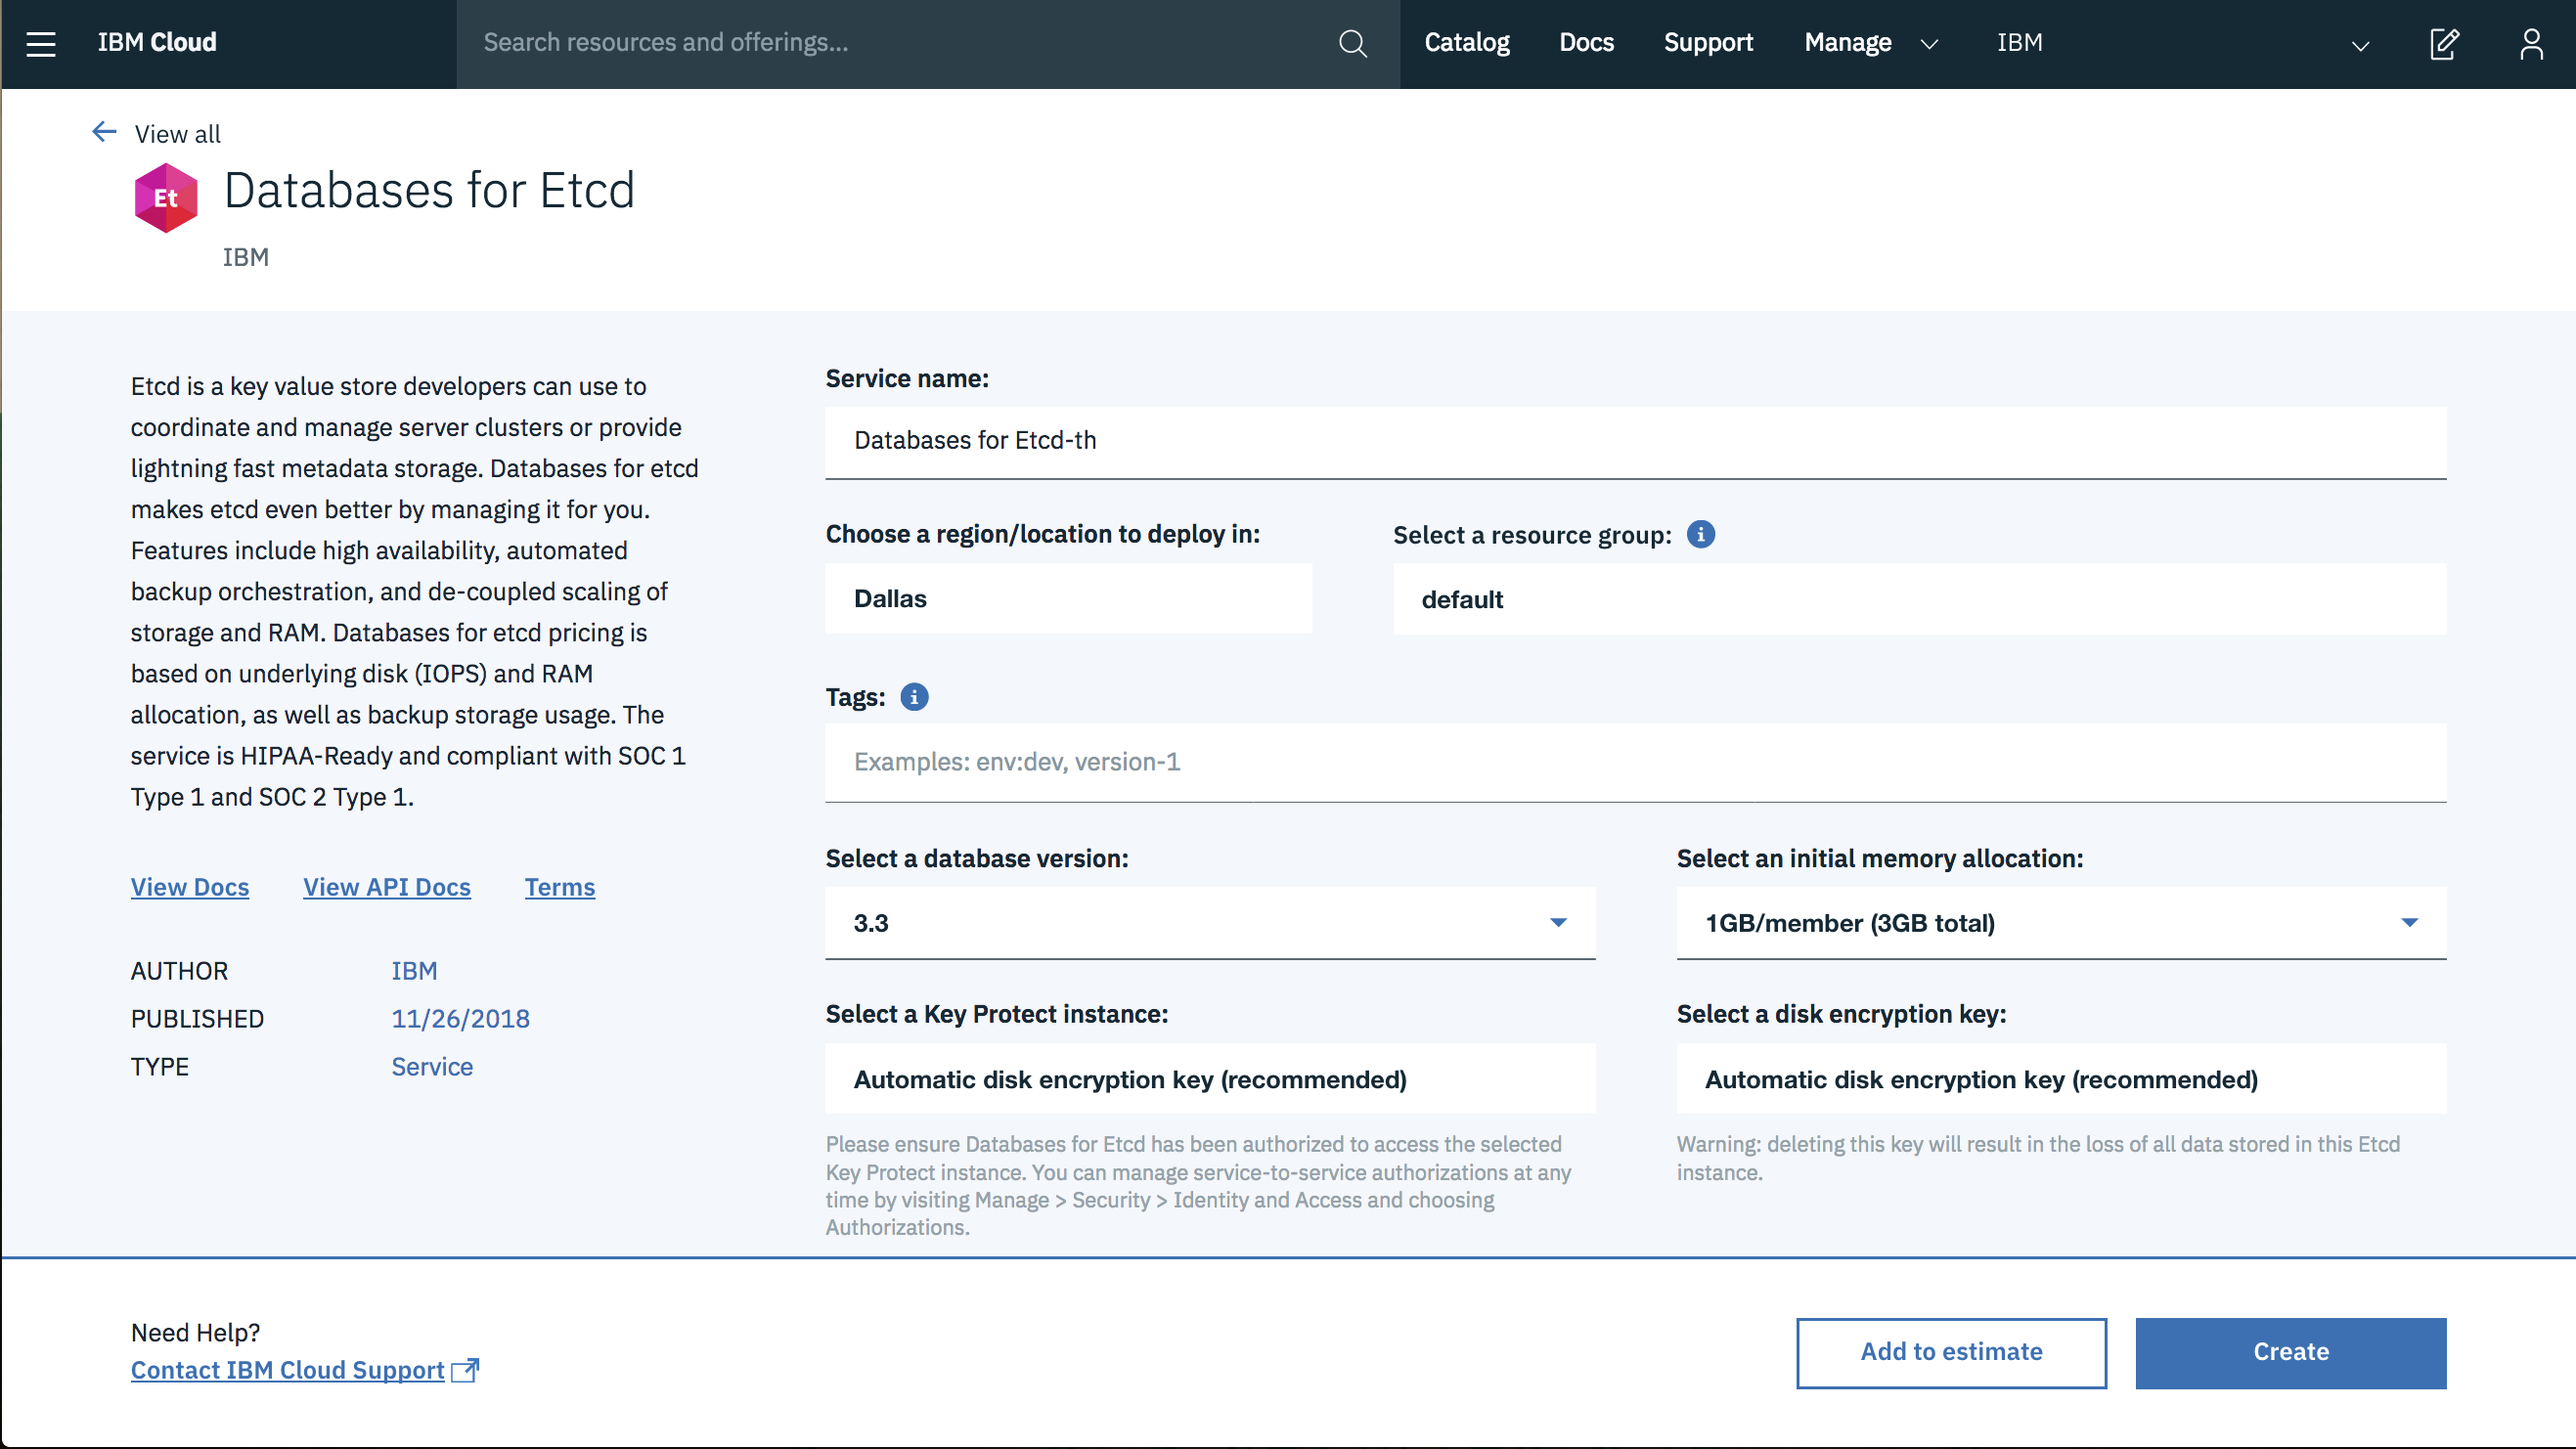
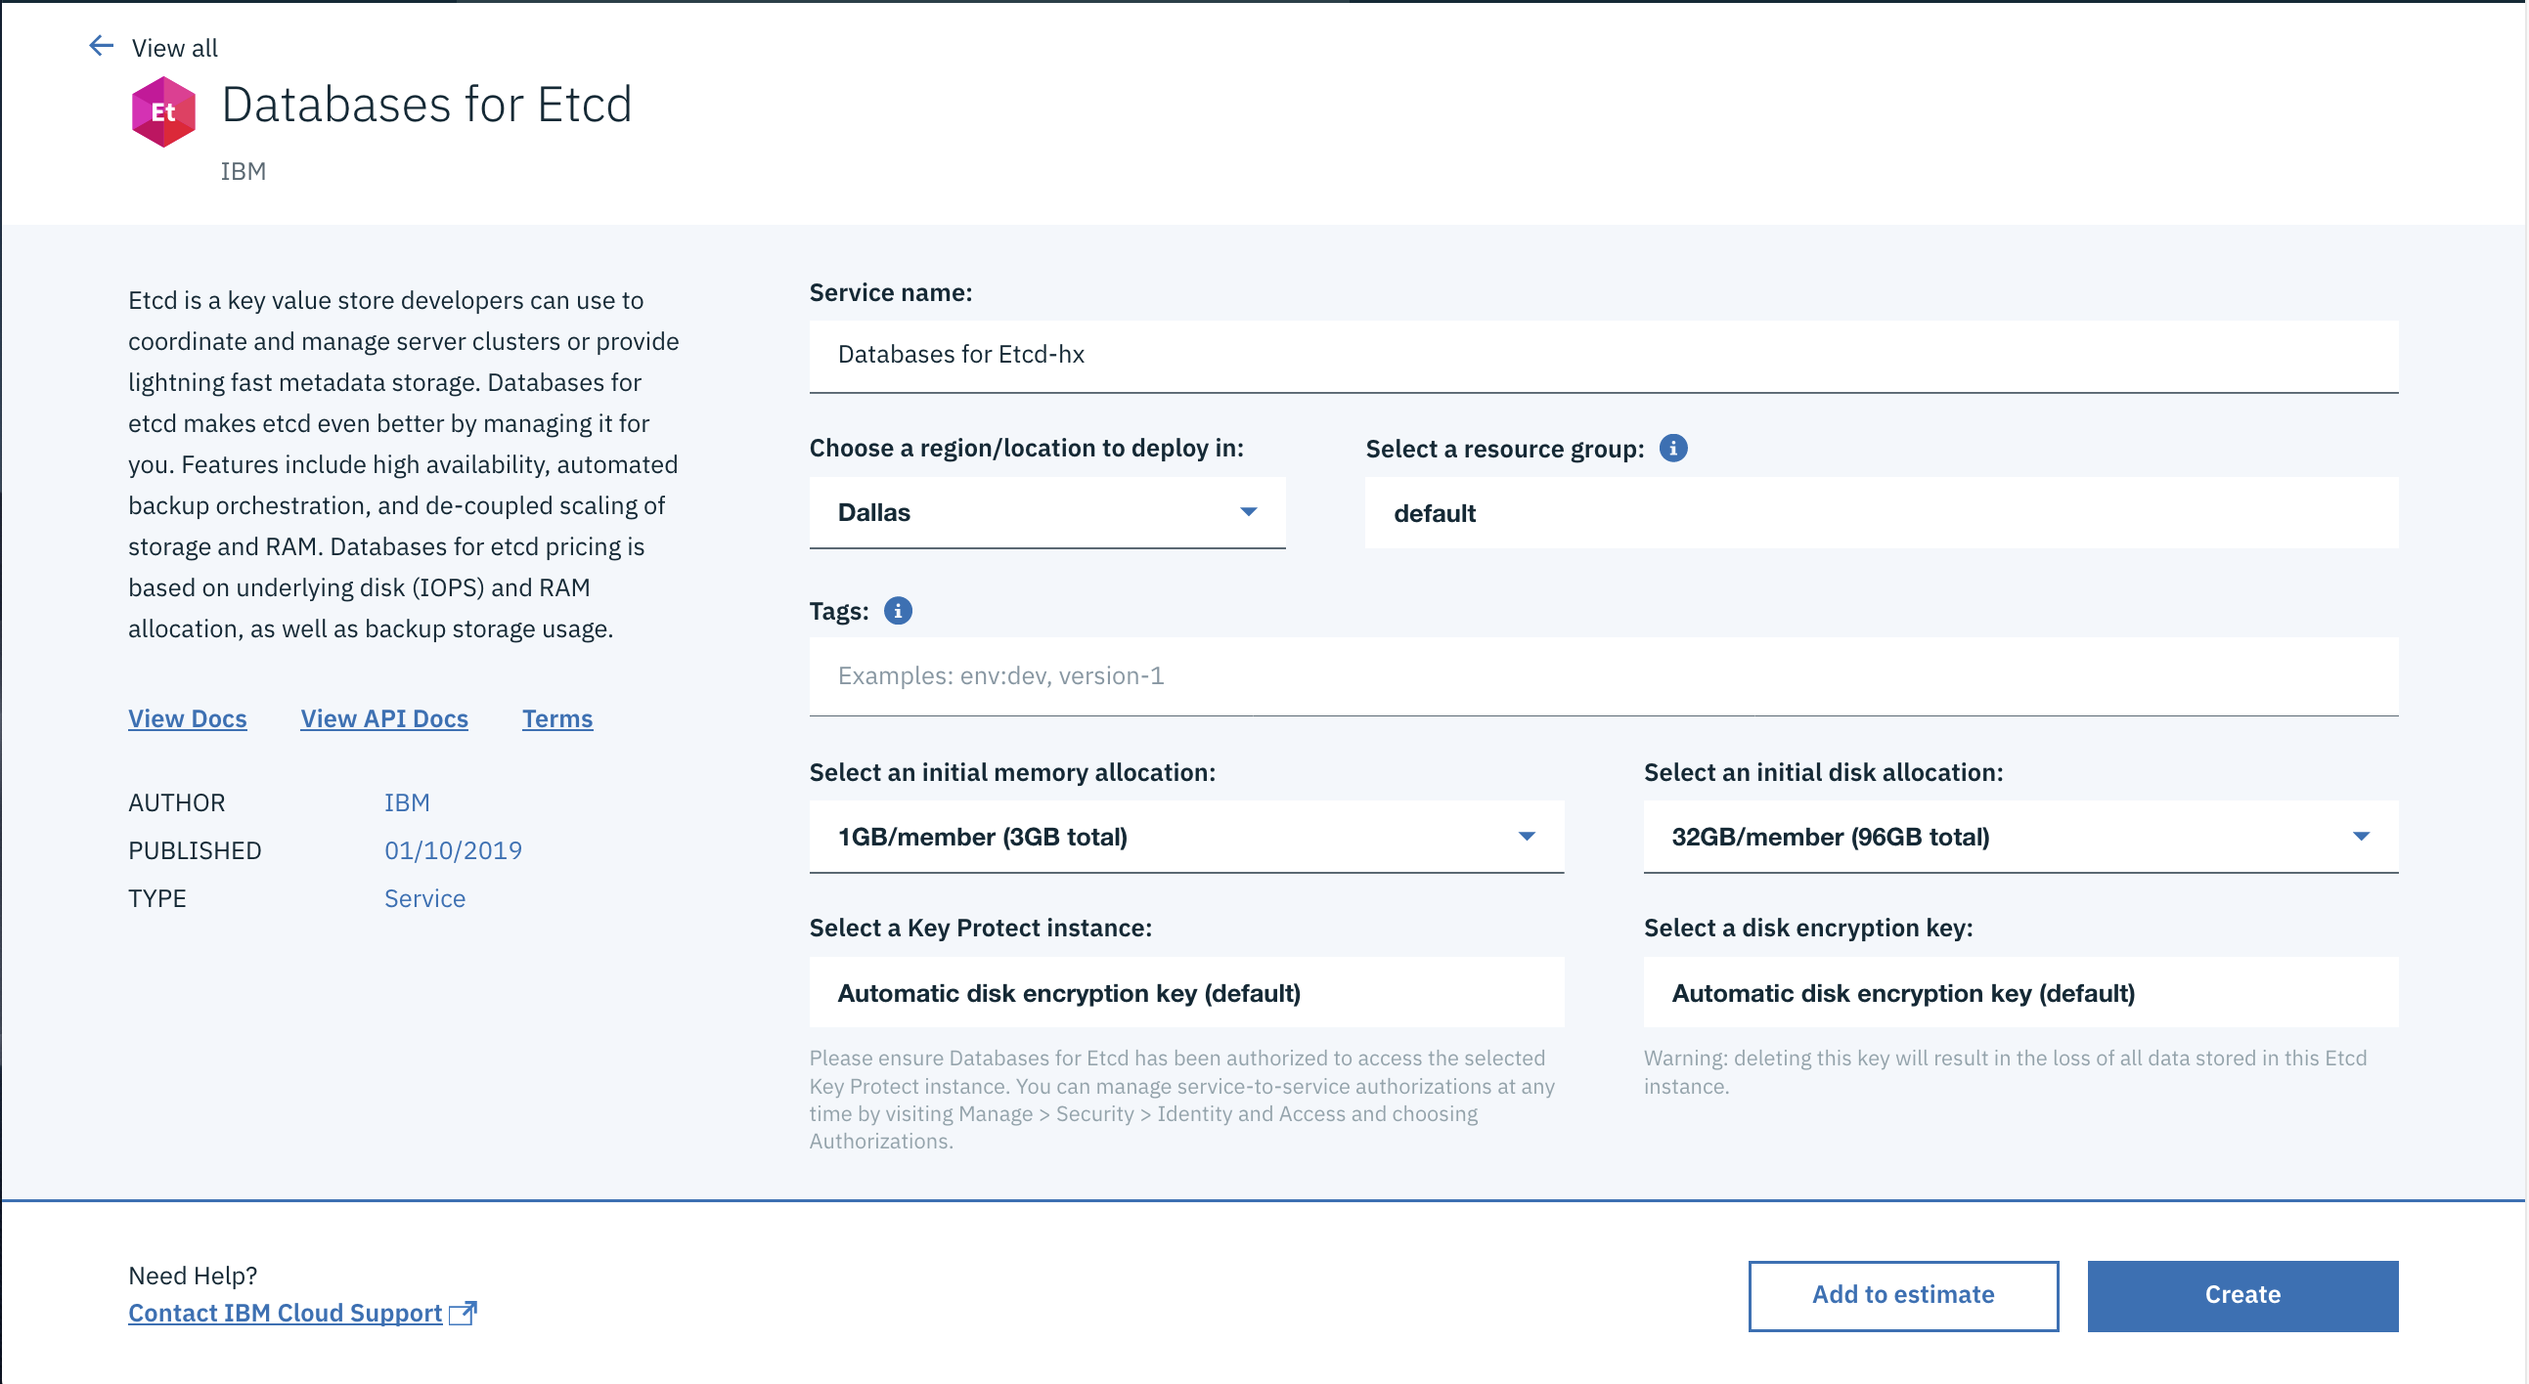
Feature provisioning terraform (#3)
* adding disk parameter

* adding api and terraform sections

* updating screenshot despite disk discrepancy

diff --git a/howto-provisioning.md b/howto-provisioning.md
@@ -1,8 +1,8 @@
 ---
 
 copyright:
-  years: 2018
-lastupdated: "2018-10-11"
+  years: 2018, 2019
+lastupdated: "2019-01-03"
 ---
 
 {:shortdesc: .shortdesc}
@@ -32,14 +32,11 @@ Users can optionally set:
 
 1. **The resource group** - If you are organizing your services into [resource groups](/docs/resources/bestpractice_rgs.html#bp_resourcegroups), you can specify the resource group in this field. Otherwise, you can leave it at default.
 2. **Disk encryption** - Optionally, a Key Protect instance can be selected if the user has Key Protect configured. If it is configured, once the service is selected, a disk encryption key can be selected from the Key Protect service. By default, Key Protect is not used and the deployment automatically creates and manages its own disk encryption key. 
-
-Users cannot set:
-
-1. **The service plan** - A service can have a number of plan types with different pricing, resources or other features, each with their own service plan ID. {{site.data.keyword.databases-for-etcd}} currently has one service plan, standard. 
+3. **Initial resource allocation** - Specify initial memory and disk sizes for your databases. The minimum sizes of memory and disk are selected by default.
 
 Once you select the appropriate settings, click **Create** to start the provisioning process off.
 
-The database takes some time to deploy. The user is navigated back to the {{site.data.keyword.cloud_notm}} Dashboard.
+The database takes some time to deploy, and you are navigated back to your {{site.data.keyword.cloud_notm}} Resource List.
 
 ## Using the command-line
 
@@ -71,21 +68,75 @@ This command reports the current state of the service instance.
 
 ### Additional parameters
 
-The `service-instance-create` command supports a `-p` flag, which allows addition parameters to be passed to the provisioning process. The parameters are in JSON format. Some parameters values are CRNs (Cloud Resource Name), which uniquely identifies a resource in the cloud. All parameter names and values are passed as strings.
+The `service-instance-create` command supports a `-p` flag, which allows [additional parameters](#list-of-additional-parameters) to be passed to the provisioning process. The parameters are in JSON format. Some parameters values are CRNs (Cloud Resource Name), which uniquely identifies a resource in the cloud. All parameter names and values are passed as strings.
 
-* `backup_id`- A CRN of a backup resource to restore from. The backup must have been created by a database deployment with the same service ID. The backup is loaded after provisioning and the new deployment starts up that uses that data. A backup CRN is in the format `crn:v1:<...>:backup:<uuid>`. If omitted, the database is provisioned empty. This parameter cannot be set with a **version** parameter
-* `version` - The version of the database to be provisioned. If omitted, the database is created with the most recent major and minor version. This parameter cannot be set with a **backup_id** parameter.
-* `key_protect_key` - A CRN that references a Key Protect key, which is then used for disk encryption.
-* `members_memory_allocation_mb` -  Total amount of memory to be shared between the database members within the database. For example, if the value is "4096" then the two database members get 4 GB of RAM between them, giving 2 GB of RAM per member. If omitted, the default value is used; "2048".
-
-For example, if a database is being provisioned from a particular backup and the new database deployment needs two members, each with 2 GB, then the command looks like:
+For example, if a database is being provisioned from a particular backup and the new database deployment needs 2 GB of memory for each member, then the command looks like:
 
 ```
 ibmcloud resource service-instance-create example-etcd databases-for-etcd standard us-south \
 -p \ '{
   "backup_id": "crn:v1:bluemix:public:databases-for-etcd:us-south:a/54e8ffe85dcedf470db5b5ee6ac4a8d8:1b8f53db-fc2d-4e24-8470-f82b15c71717:backup:06392e97-df90-46d8-98e8-cb67e9e0a8e6",
-  "members_memory_allocation_mb": "4096"
+  "members_memory_allocation_mb": "6144"
 }'
 ```
 
+## Provisioning through the Resource Controller API
 
+You can provision new deployments by using the Resource Controller API. However, in order to use the Resource Controller API, you need some additional preparation.
+
+1. [Obtain an IAM token from your API token](https://{DomainName}/apidocs/resource-controller#authentication).
+2. You need to know the ID of the resource group that you would like to deploy to. This information is available through the [{{site.data.keyword.cloud_notm}} CLI](https://{DomainName}/docs/cli/reference/ibmcloud/cli_resource_group.html#ibmcloud_resource_groups). You can find a list of resource groups with `ibmcloud resource groups` and the ID of a resource group with `ibmcloud resource group`. 
+3. You need to know the region that you would like to deploy to.
+
+Once you have all the information, the create request is a `POST` to the `https://resource-controller.bluemix.net/v2/resource_instances` endpoint.
+
+```
+curl -X POST \
+  https://resource-controller.bluemix.net/v2/resource_instances \
+  -H 'Authorization: Bearer <>' \
+  -H 'Content-Type: application/json' \
+    -d '{
+    "name": "my-instance",
+    "target": "bluemix-us-south",
+    "resource_group": "5g9f447903254bb58972a2f3f5a4c711",
+    "resource_plan_id": "databases-for-etcd-standard"
+  }'
+```
+The parameters `name`, `target`, `resource_group`, and `resource_plan_id` are all required. If needed, you can send [additional parameters](#list-of-additional-parameters) in the request body.
+
+More information on the Resource Controller API is found in its [API Reference](https://{DomainName}/apidocs/resource-controller#create-provision-a-new-resource-instance).
+
+## Provisioning with Terraform
+
+If you use [Terraform](https://www.terraform.io/) to manage your infrastructure, the [{{site.data.keyword.cloud_notm}} provider for Terraform](https://ibm-cloud.github.io/tf-ibm-docs/) supports provisioning {{site.data.keyword.databases-for-etcd}}. 
+
+Example configuration:
+
+```
+data "ibm_resource_group" "group" {
+  name = "default"
+}
+resource "ibm_resource_instance" "resource_instance" {
+  name              = "example-terraform-etcd"
+  location          = "us-south"
+  service           = "databases-for-etcd"
+  plan              = "standard"
+  resource_group_id = "${data.ibm_resource_group.group.id}"
+  parameters = {}
+}
+```
+
+The `name`, `location`, `service`, and `plan` fields are all required. The `resource_group_id` is not required, and it uses the default resource group if not supplied.
+
+You can send any needed [additional parameters](#list-of-additional-parameters) in the `parameters` field as a JSON object.
+
+More information about this specific I{{site.data.keyword.cloud_notm}} provider configuration is available under the [Cloud Foundry Resources, `resource_instance`](https://ibm-cloud.github.io/tf-ibm-docs/v0.14.0/r/resource_instance.html) documentation.
+
+
+## List of Additional Parameters
+
+* `backup_id`- A CRN of a backup resource to restore from. The backup must have been created by a database deployment with the same service ID. The backup is loaded after provisioning and the new deployment starts up that uses that data. A backup CRN is in the format `crn:v1:<...>:backup:<uuid>`. If omitted, the database is provisioned empty. This parameter cannot be set with a **version** parameter
+* `version` - The version of the database to be provisioned. If omitted, the database is created with the most recent major and minor version. This parameter cannot be set with a **backup_id** parameter.
+* `key_protect_key` - A CRN that references a Key Protect key, which is then used for disk encryption.
+* `members_memory_allocation_mb` -  Total amount of memory to be shared between the database members within the database. For example, if the value is "6144" then the database members get 6 GB of RAM between them, giving 2 GB of RAM per member. If omitted, the default value is used; "3072".
+* `members_disk_allocation_mb` - Total amount of disk to be shared between the database members within the database. For example, if the value is "122880" then the database members get 120 GB of disk between them, giving 40 GB of disk per member. If omitted, the default value is used; "61440".
